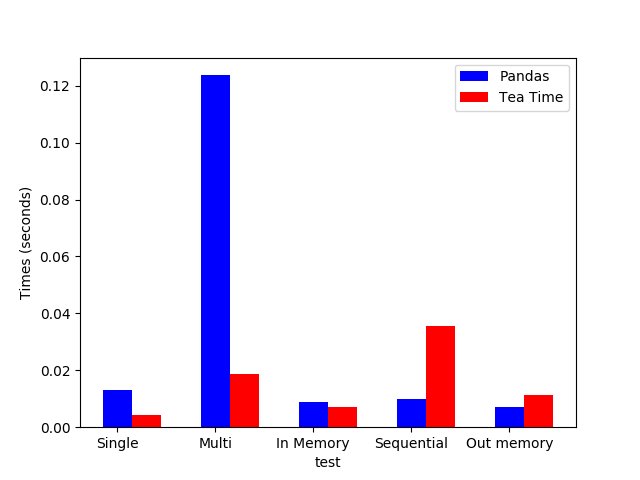
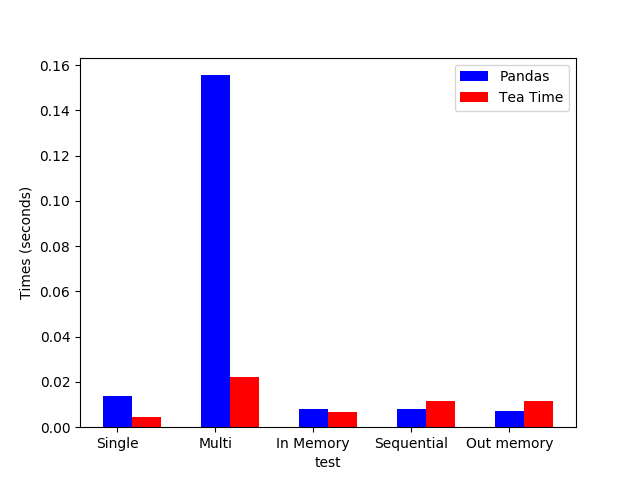
Fixed weird issue with sequential reading not being as fast

diff --git a/data_cacher.py b/data_cacher.py
@@ -98,26 +98,28 @@ class DataCacher(object):
             # Get only the day part of the time
             cur_day = str(row.time).split(' ')[0]
 
-            if cur_day != dt:
-                self.__cache[symb] = []
+            # Sequential reads could be optimized
+            #if cur_day != dt:
+            self.__cache[symb] = []
 
-                lookahead = lookbehind + self.__cache_count
-                start_idx = idx - lookbehind
-                check_dates = list(self.cal.schedule.index[start_idx:start_idx +
-                        lookahead])
-                start_dt = check_dates[0]
-                lookahead = len(check_dates)
+            lookahead = lookbehind + self.__cache_count
+            start_idx = idx - lookbehind
+            check_dates = list(self.cal.schedule.index[start_idx:start_idx +
+                    lookahead])
+            start_dt = check_dates[0]
+            lookahead = len(check_dates)
 
-                self.__add_data_search(symb, tf, start_dt, check_dates, lookahead)
-            else:
-                # Minus one because we need to append the row we just read.
-                self.__cache[symb] = self.__cache[symb][-(lookbehind - 1):]
+            self.__add_data_search(symb, tf, start_dt, check_dates, lookahead)
+            #else:
+            #    self.__log('Fetching sequentailly', DataCacher.LOG_INFO)
+            #    # Minus one because we need to append the row we just read.
+            #    self.__cache[symb] = self.__cache[symb][-(lookbehind - 1):]
 
-                lookahead = self.__cache_count
-                check_dates = list(self.cal.schedule.index[idx-lookbehind:idx +
-                        lookahead])
+            #    lookahead = self.__cache_count
+            #    check_dates = list(self.cal.schedule.index[idx-lookbehind:idx +
+            #            lookahead])
 
-                self.__add_data(symb, tf, check_dates, lookahead, row)
+            #    self.__add_data(symb, tf, check_dates, lookahead, row)
 
             if symb in self.__cache and np.isnan(self.__cache[symb][:lookbehind]).any():
                 self.__remove_key(symb)
